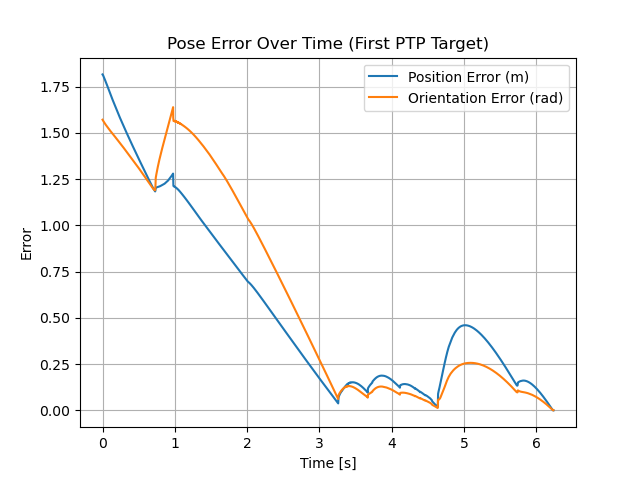
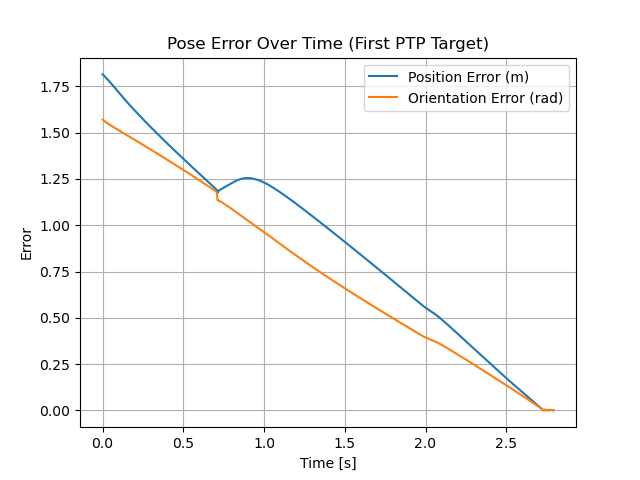
update

diff --git a/Controller.py b/Controller.py
@@ -558,9 +558,9 @@ class Controller:
         #print("")
 
   
-        Kp = np.diag([1, 1, 1, 1, 1, 1])
+        #Kp = np.diag([1, 1, 1, 1, 1, 1])
         #Kp = np.diag([0.5, 0.5, 0.5, 0.5, 0.5, 0.5])
-        #Kp = np.diag([1.5, 1.5, 1.5, 1.5, 1.5, 1.5])
+        Kp = np.diag([1.5, 1.5, 1.5, 1.5, 1.5, 1.5])
         norm_error = np.linalg.norm(pose_error)
         gain_scale = np.clip(norm_error, 0.4, 1)
         Kp_scaled = gain_scale * Kp

diff --git a/main.py b/main.py
@@ -13,7 +13,7 @@ import matplotlib.pyplot as plt
 
 
 
-def run_point_to_point_test(sim, controller, points, hold_time=0.1):
+def run_point_to_point_test(sim, controller, points, hold_time=0.2):
 
     controller.error_history = []
     controller.time_history = []
